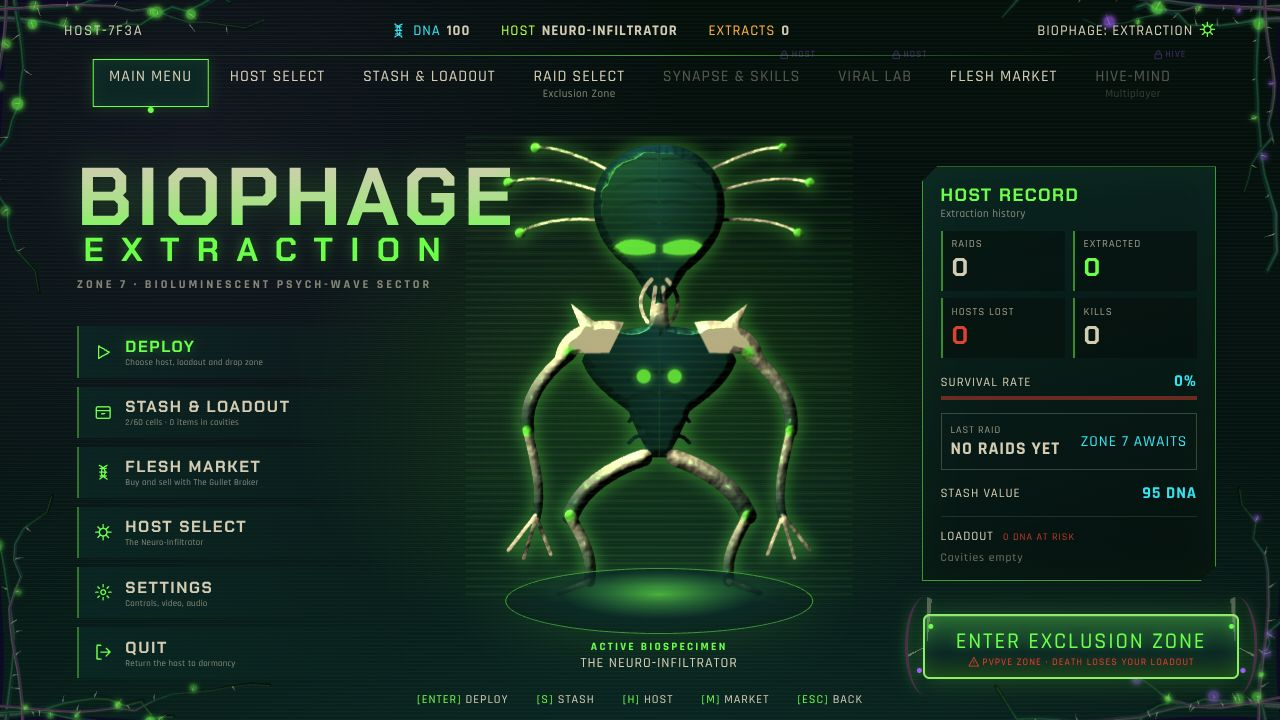
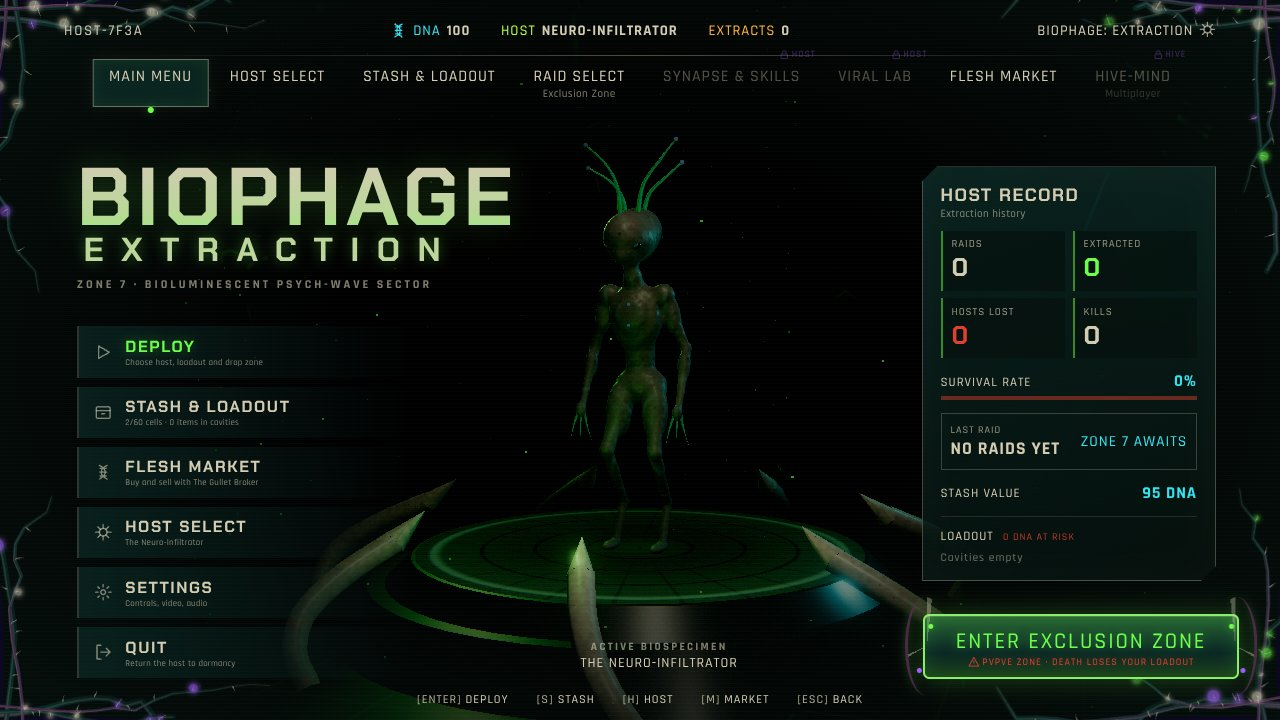
UI: live 3D Hive lab behind the main menu with the host's body; build label clear of the weapon panel
The main menu now stands Creature's createHostBody on Rendering's Hive lab pedestal, framed
for the specimen column with a slow turntable and a soft bone fill. Other Hive screens still
skip the 3D frame. Automated runs draw the lab every 2.5 s only so software rendering never
stalls their clicks. The raid HUD's build label moves bottom-left, clear of the weapon panel
(Build's play check).

Claude-Session: https://claude.ai/code/session_01Y5Bov3ks6nuTAZPUgxS2zo

diff --git a/src/ui/hive-stage.ts b/src/ui/hive-stage.ts
@@ -1,0 +1,76 @@
+/**
+ * The live 3D stage behind the Hive main menu: Rendering's lab chamber (src/render/hivelab.ts) with the current
+ * host's body (Creature's createHostBody) idling on the pedestal while the camera turns slowly around it.
+ * It takes over the pipeline only while it is active and hands the raid scene back when it stops.
+ */
+import * as THREE from 'three';
+import type { ClassId } from '../../data';
+import { createHostBody, type HostBody } from '../creatures/hosts';
+import { createHiveLab, type HiveLab } from '../render/hivelab';
+import { HIVE } from '../render/palette';
+import type { Pipeline } from '../render/pipeline';
+
+/**
+ * Menu framing: closer than the lab's default so the ~2 m host fills the specimen column. Turntable speed (rad/s) and
+ * starting yaw give a slow three-quarter view like the reference portrait. The fill is a soft bone light that follows
+ * the camera, so the host's face never turns into the dark.
+ */
+export const STAGE = { dist: 7, eyeY: 1.9, lookY: 1.55, spin: 0.12, yaw: 0.35, fill: 22, testFrameMs: 2500 };
+
+export class HiveStage {
+  private lab: HiveLab | null = null;
+  private body: HostBody | null = null;
+  private yaw = STAGE.yaw;
+  private fill = new THREE.PointLight(HIVE.bone, STAGE.fill, 12, 1.8);
+  active = false;
+  private lastDraw = -Infinity;
+
+  constructor(private pipeline: Pipeline) {}
+
+  /** Turns the stage on with this host on the pedestal, or off. Cheap to call every frame. */
+  set(on: boolean, host: ClassId, aspect: number): void {
+    if (on) {
+      if (!this.lab) {
+        this.lab = createHiveLab();
+        this.lab.scene.add(this.fill);
+        if (this.pipeline.quality === 'high') this.lab.bakeEnvironment(this.pipeline.renderer);
+      }
+      if (this.body?.classId !== host) {
+        this.body = createHostBody(host);
+        this.lab.place(this.body.root);
+      }
+      if (this.lab.camera.aspect !== aspect) { this.lab.camera.aspect = aspect; this.lab.camera.updateProjectionMatrix(); }
+      if (!this.active) {
+        this.pipeline.overrideScene = this.lab.scene;
+        this.pipeline.overrideCamera = this.lab.camera;
+        this.pipeline.setPreset('hive');
+      }
+    } else if (this.active) {
+      this.pipeline.overrideScene = null;
+      this.pipeline.overrideCamera = null;
+      this.pipeline.setPreset('zone7');
+    }
+    this.active = on;
+  }
+
+  /**
+   * Whether to draw the stage this frame. Automated runs (tests, playtest bot) on software rendering draw it every
+   * STAGE.testFrameMs only, so a slow lab frame never stalls their clicks; players get every frame.
+   */
+  due(now = performance.now(), automated = navigator.webdriver): boolean {
+    if (!this.active) return false;
+    if (automated && now - this.lastDraw < STAGE.testFrameMs) return false;
+    this.lastDraw = now;
+    return true;
+  }
+
+  update(dt: number): void {
+    if (!this.active || !this.lab) return;
+    this.body?.update(dt);
+    this.yaw += dt * STAGE.spin;
+    const cam = this.lab.camera, x = Math.sin(this.yaw), z = Math.cos(this.yaw);
+    cam.position.set(x * STAGE.dist, STAGE.eyeY, z * STAGE.dist);
+    cam.lookAt(0, STAGE.lookY, 0);
+    this.fill.position.set(x * STAGE.dist * 0.6 + z * 1.2, STAGE.eyeY + 1, z * STAGE.dist * 0.6 - x * 1.2);
+  }
+}

diff --git a/src/main.ts b/src/main.ts
@@ -3,6 +3,7 @@ import { haulValue } from '../data';
 import { Raid } from './game/raid';
 import { RaidHud } from './ui/raid-hud';
 import { HiveMenu } from './ui/hive-menu';
+import { HiveStage } from './ui/hive-stage';
 import { ItemGrid } from './game/grid';
 import { browserStorage, deploy, die, extract, loadProfile, saveProfile } from './game/profile';
 import { buildZone7 } from './world/zone7';
@@ -60,6 +61,7 @@ function bootRaid(): void {
   const pipeline = createPipeline(canvas, scene, camera, 'zone7');
   installLookdev(pipeline, camera, scene);
   raid.pipeline = pipeline;
+  const stage = new HiveStage(pipeline);
 
   function resize(): void {
     const w = innerWidth, h = innerHeight;
@@ -82,9 +84,14 @@ function bootRaid(): void {
     const dt = Math.min(clock.getDelta(), 0.05);
     raid.update(dt);
     hud.update(dt, raid.hud());
-    // The Hive screens cover the whole view: skip the 3D frame behind them (the loop and frame counter keep running).
-    // The first frames still render so shaders compile at boot, not on the DEPLOY click.
-    if (!menu.visible || frames < 3) pipeline.render(dt);
+    // The main menu draws the 3D Hive lab with the host on its pedestal; other Hive screens cover the whole view, so
+    // the 3D frame behind them is skipped (the loop and frame counter keep running). The first frames always render
+    // the raid scene so its shaders compile at boot, not on the DEPLOY click.
+    const lab = frames >= 3 && menu.wantsStage;
+    stage.set(lab, profile.host, camera.aspect);
+    menu.stageLive(lab);
+    stage.update(dt);
+    if (!menu.visible || frames < 3 || stage.due()) pipeline.render(dt);
     frames++;
     // Read by tests/smoke.mjs and tests/raid.mjs: proves the loop is alive and drives scripted raids.
     (window as unknown as { __biophage: object }).__biophage = { frames, position: camera.position.toArray(), state: raid.testState(), profile, debug };

diff --git a/tests/ui.test.ts b/tests/ui.test.ts
@@ -9,6 +9,8 @@ import { gridSize, usage } from '../src/ui/hive/model';
 import { getSettings, DEFAULT_SETTINGS, SETTINGS_KEY } from '../src/ui/settings';
 import { fixtureActions, fixtureProfile } from '../mocks/fixtures';
 import { source } from '../src/ui/hive/stash';
+import { HiveStage, STAGE } from '../src/ui/hive-stage';
+import type { Pipeline } from '../src/render/pipeline';
 
 describe('item icons', () => {
   it('gives every item in loot.json an icon, hand-drawn for every Larva and Host item so far', () => {
@@ -113,5 +115,17 @@ describe('podLayout (TAB overlay pod grid)', async () => {
       if (a === b) continue;
       expect(fits({ zone: 'pod', label: '', size: lay.size, items: [b] }, a.item, a.x, a.y, a.rotated)).not.toBe('blocked');
     }
+  });
+});
+
+describe('Hive stage', () => {
+  it('draws only while active, and at most every STAGE.testFrameMs in automated runs', () => {
+    const st = new HiveStage({} as Pipeline);
+    expect(st.due(0, false)).toBe(false);
+    st.active = true;
+    expect(st.due(0, false)).toBe(true);
+    expect(st.due(1, false)).toBe(true);
+    expect(st.due(10, true)).toBe(false);
+    expect(st.due(1 + STAGE.testFrameMs, true)).toBe(true);
   });
 });

diff --git a/src/ui/hud.css b/src/ui/hud.css
@@ -23,7 +23,8 @@ html, body { margin:0; height:100%; overflow:hidden; background:var(--bg); color
 
 /* ---------------------------------------------------------------- Spore raid HUD (Gameplay Engineering interim).
    Colour variables are set at runtime from src/render/palette.ts by src/ui/raid-hud.ts. */
-#hud.raid #brand { top:auto; bottom:6px; right:20px; font-size:10px; opacity:.6; }
+/* Bottom-left under the eye, clear of the weapon panel (Build play check, 2026-11-11). */
+#hud.raid #brand { top:auto; bottom:4px; left:20px; right:auto; font-size:10px; opacity:.45; color:var(--bone); }
 #hud.raid.briefing > :not(#prompt):not(#brand) { opacity:.35; }
 #hud.raid #vitals { left:24px; bottom:22px; width:420px; grid-template-columns:96px 1fr; grid-template-rows:auto auto; column-gap:14px; align-items:end; }
 #hud.raid #vitals .eye { grid-row:1 / span 2; }

diff --git a/src/ui/hive-menu.ts b/src/ui/hive-menu.ts
@@ -82,6 +82,12 @@ export class HiveMenu {
 
   get visible(): boolean { return this.ui.visible; }
 
+  /** The main menu shows the live 3D Hive lab (src/ui/hive-stage.ts) behind its specimen column. */
+  get wantsStage(): boolean { return this.ui.visible && this.ui.tab === 'menu'; }
+
+  /** The 2D specimen hides and the backdrop thins to a vignette while the 3D stage is drawing. */
+  stageLive(on: boolean): void { this.ui.root.classList.toggle('lab-live', on); }
+
   hide(): void { this.ui.hide(); document.body.classList.remove('in-hive'); }
 
   say(text: string): void { this.ui.notice(text.toUpperCase(), 'danger'); }
